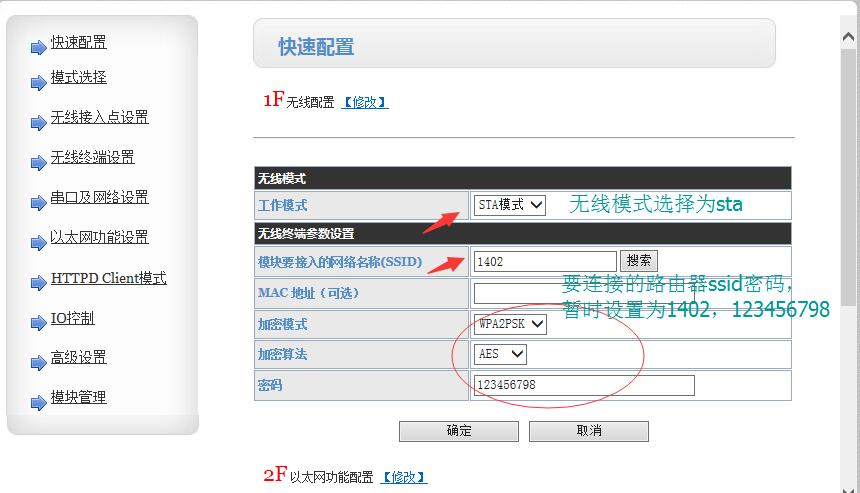
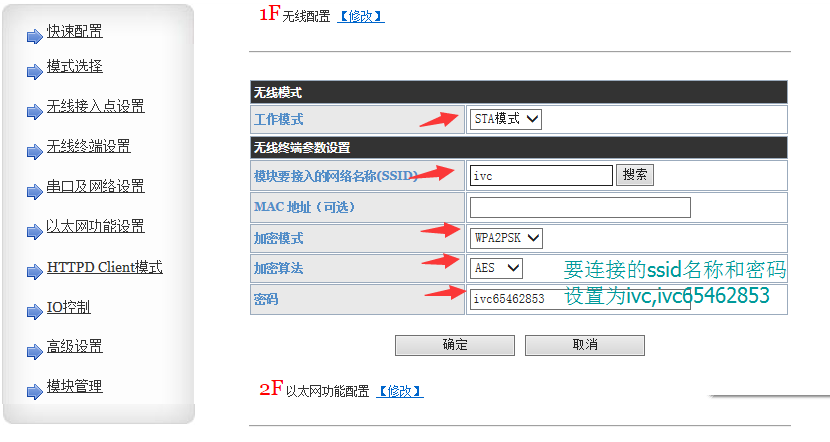
a

diff --git a/WebContent/lyqsz.html b/WebContent/lyqsz.html
@@ -4,28 +4,27 @@
 	<meta charset="UTF-8">
 	<meta name="viewport" content="width=device-width, initial-scale=1.0">
 	<title>路由器设置说明</title>
+	<style type="text/css">
+		li img{
+			width:100%;
+		}
+	</style>
 </head>
 <body>
 	<ul>
 		<li>
-			<p>快速设置里</p>
-			<img src="img/mksz1.jpg">
+			<p>先通过设置向导跟普通路由器一样，使路由器能够连接网络</p>
+			<img src="img/lyqsz1.jpg">
 		</li>
 		<li>
-			<p>串口与网络设置</p>
-			<img src="img/mksz2.jpg">
-			<p>往下翻到设备注册包设置</p>
-			<img src="img/mksz3.jpg">
-			<p>往下翻到网络参数设置</p>
-			<img src="img/mksz4.jpg">
+			<p>设置指定的wifi名称密码</p>
+			<img src="img/lyqsz2.jpg">
+			
+			<img src="img/lyqsz3.jpg">
+			<p>路由器设置主要是为了能让ivc设备启动后自动连接到此路由器，所以wifi名称和密码必须设置为对应的ivc,ivc65462853</p>
+			
 		</li>
-		<li>
-			<p>无线接入点设置</p>
-			<img src="img/mksz5.jpg">
-			<p>最后记录下mac地址，到<a href="http://usr.lightxx.cn/hostManage.jsp">http://usr.lightxx.cn/hostMap.jsp</a>填写</p>
-
-		</li>
-		<li>重启模块</li>
+		<li>重启路由器</li>
 	</ul>
 </body>
 </html>

diff --git a/WebContent/mksz.html b/WebContent/mksz.html
@@ -4,6 +4,7 @@
 	<meta charset="UTF-8">
 	<meta name="viewport" content="width=device-width, initial-scale=1.0">
 	<title>模块设置说明</title>
+	
 </head>
 <body>
 	<ul>
